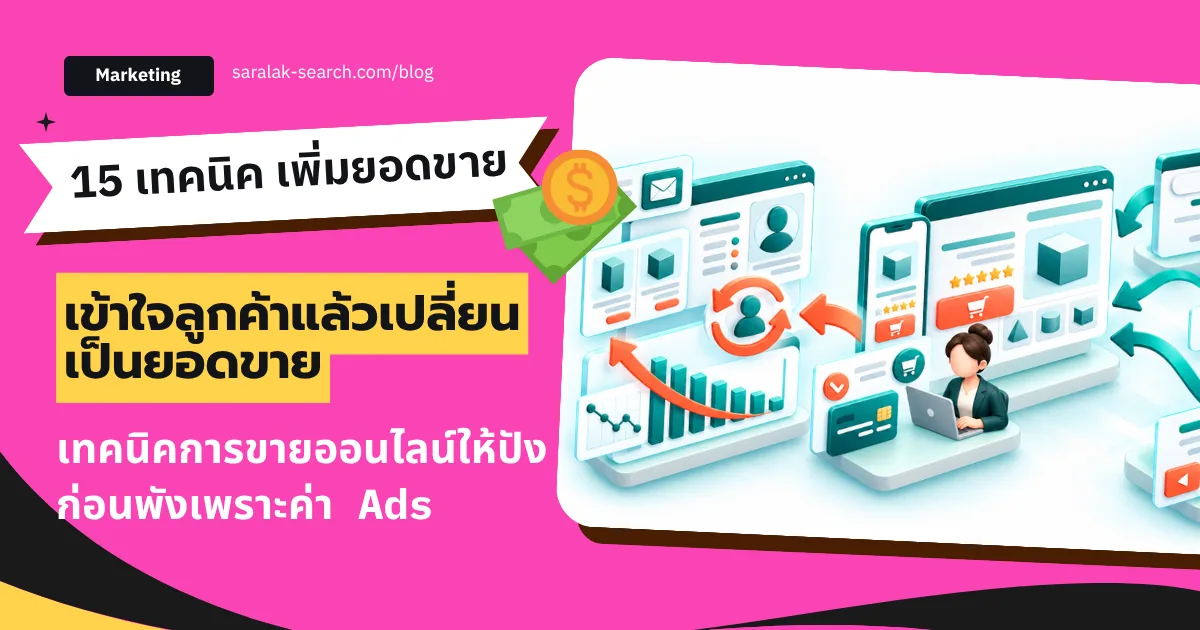
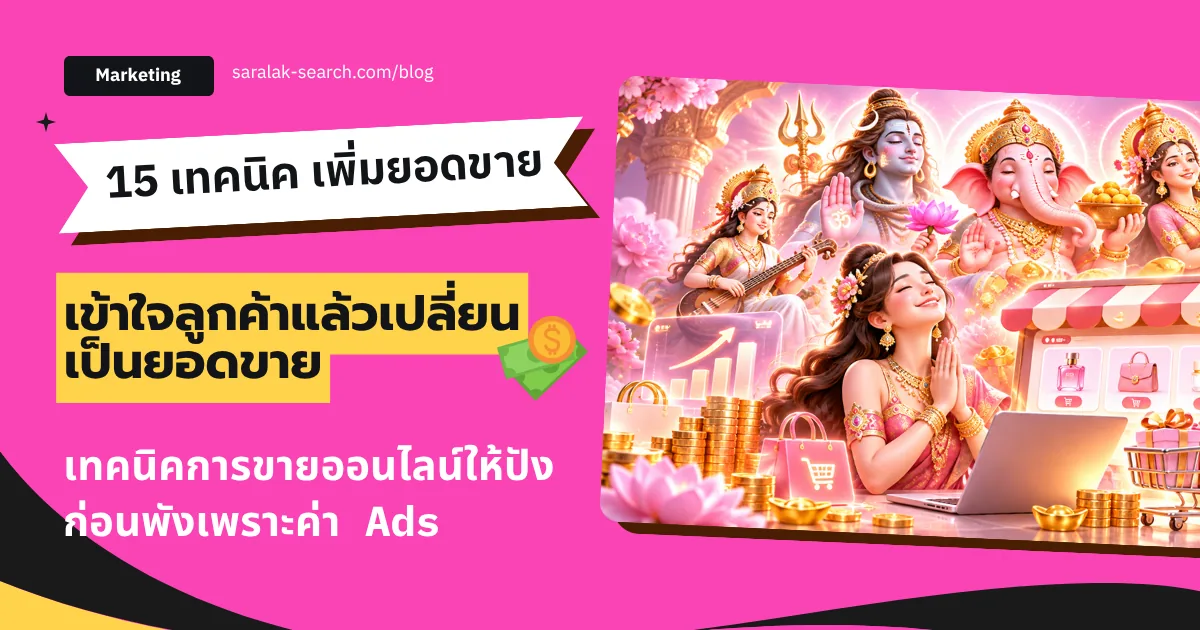
Correct blog cover and OG mappings

diff --git a/src/content/blog.ts b/src/content/blog.ts
@@ -982,10 +982,10 @@ export const blogPosts: BlogPost[] = [
     authorName: 'Saralak Kaewkum',
     authorRole: 'SEO, AEO & GEO Consultant',
     authorUrl: '/about',
-    heroImageDesktop: '/image/blog/increase-sale-resturant/resturant-increase-sale-banner.png',
-    heroImageMobile: '/image/blog/increase-sale-resturant/resturant-increase-sale-banner.png',
+    heroImageDesktop: '/image/blog/covers/increase-sale-restaurant.webp',
+    heroImageMobile: '/image/blog/covers/increase-sale-restaurant.webp',
     heroImageAlt: 'แนวทางเพิ่มยอดขายร้านอาหาร ตั้งแต่ปรับข้อมูล Google Maps ไปจนถึงวัดผลออร์เดอร์และกำไร',
-    ogImage: '/image/blog/increase-sale-resturant/resturant-increase-sale-banner.png',
+    ogImage: '/image/blog/covers/increase-sale-restaurant.webp',
     metaTitle: 'เพิ่มยอดขายร้านอาหาร: 7 วิธีเพิ่มออร์เดอร์และกำไร | Saralak Search',
     metaDescription: 'รวมวิธีเพิ่มยอดขายร้านอาหาร ตั้งแต่หาคอขวด ปรับ Google Maps และเมนู เพิ่มยอดต่อบิล ทำโปรโมชัน ไปจนถึงวัดผลจากออร์เดอร์และกำไรหลังหักต้นทุน',
     aiSummary: [
